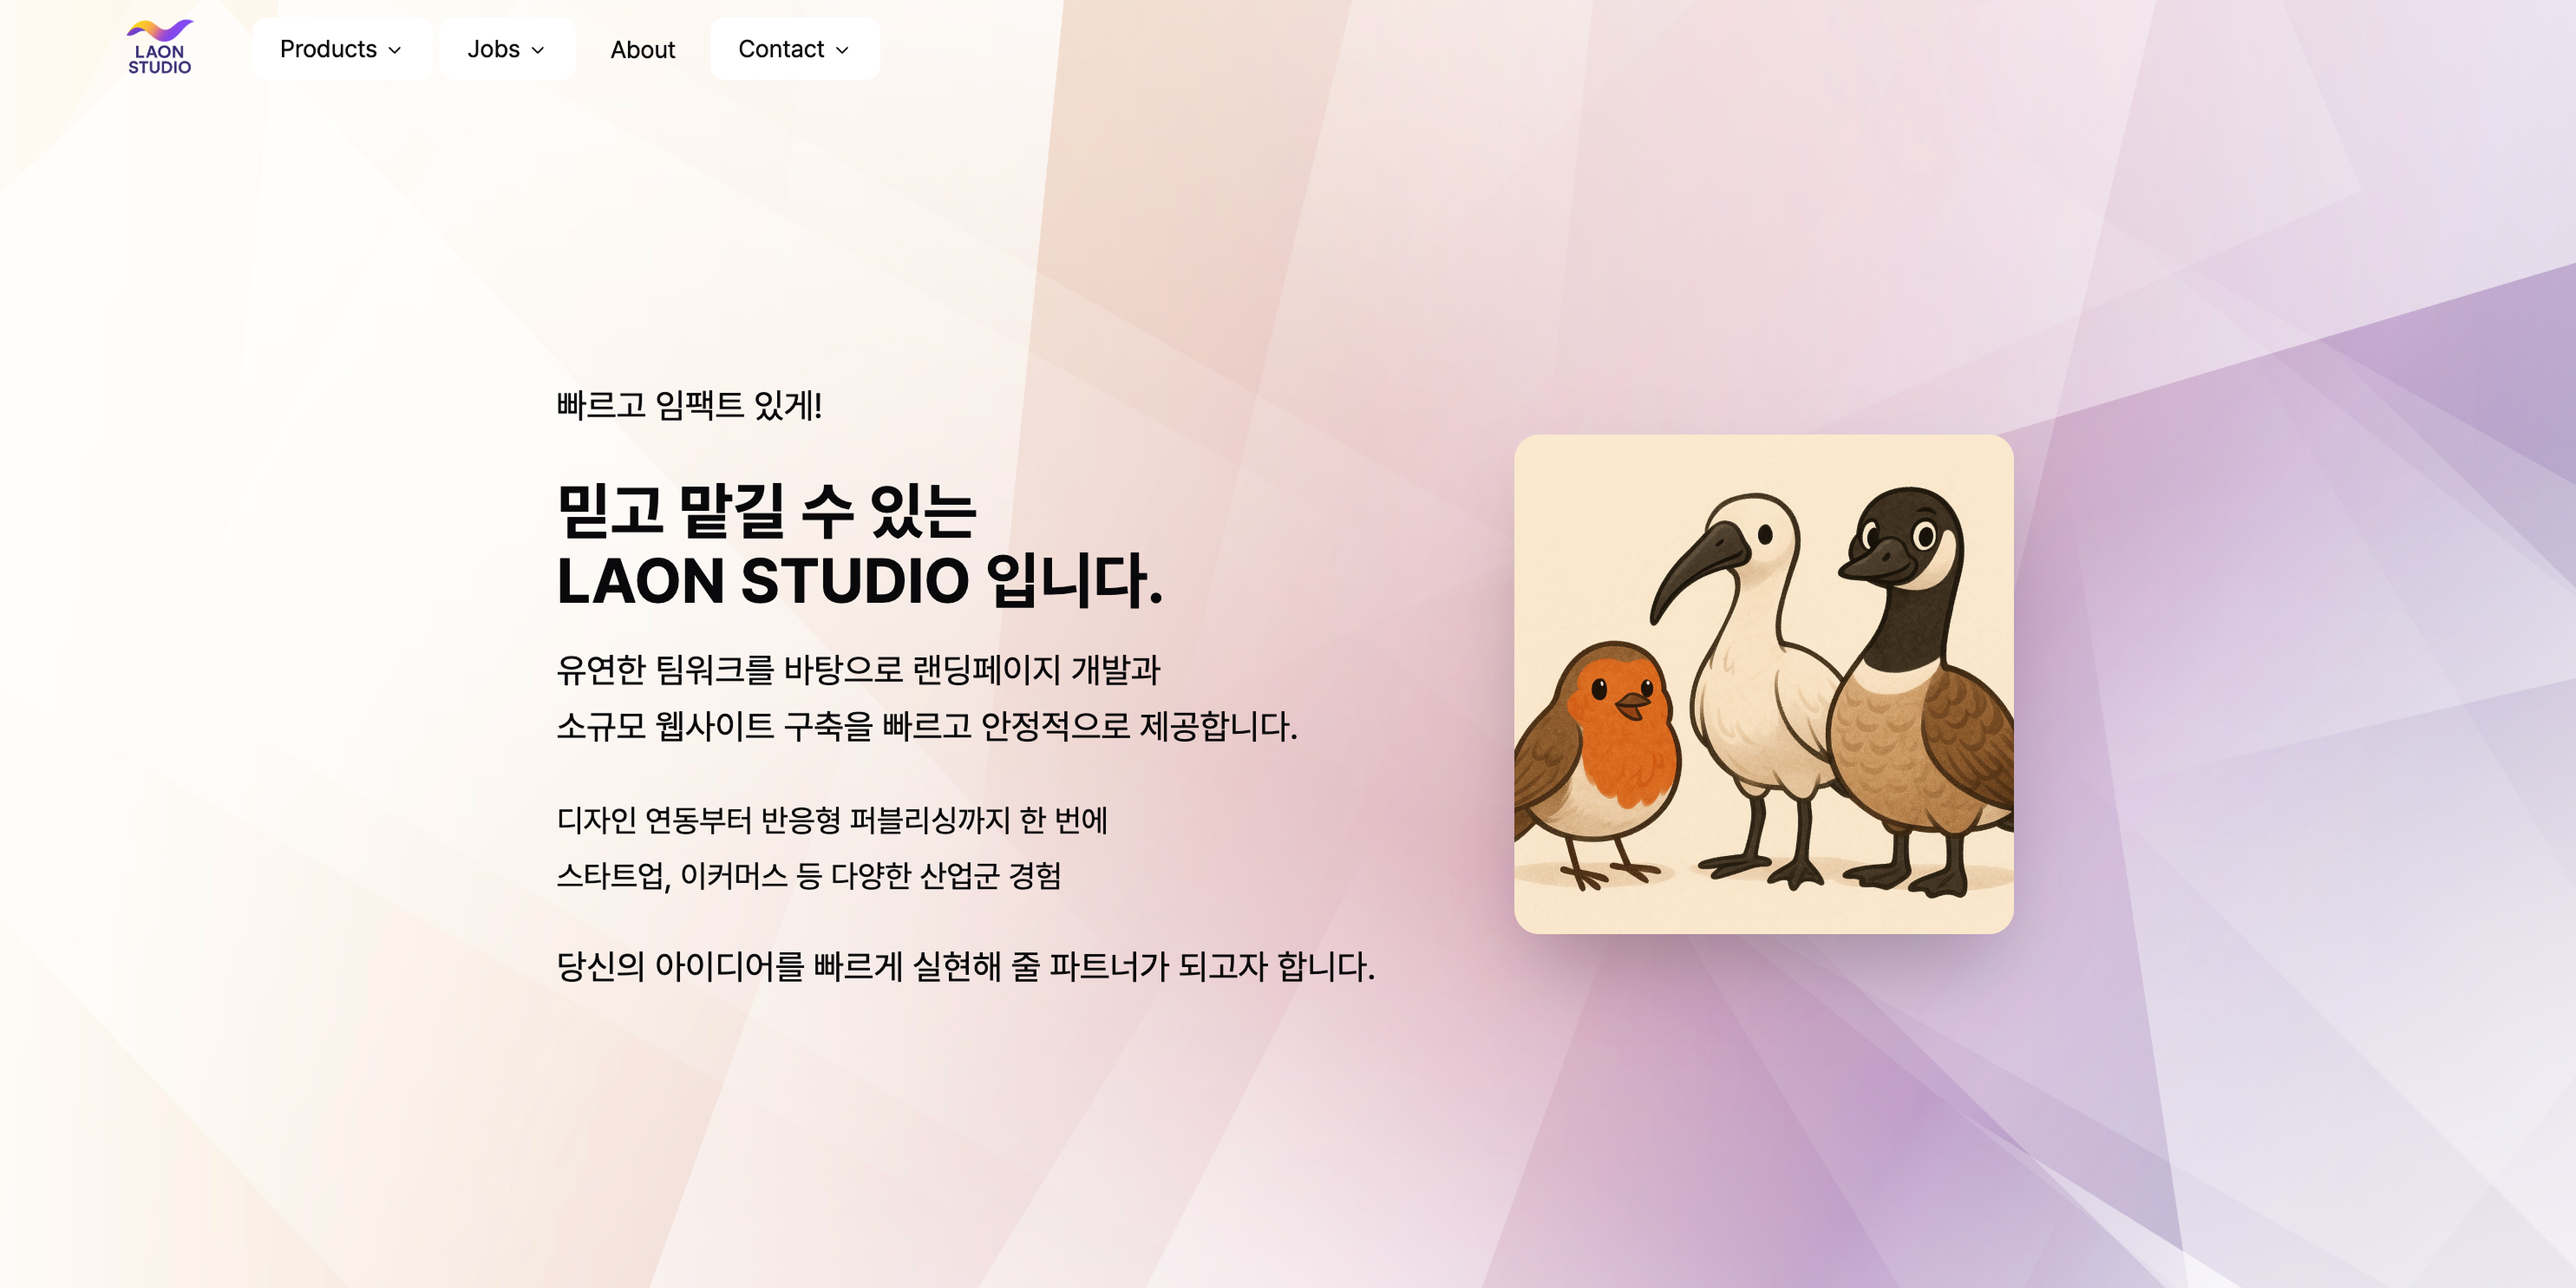
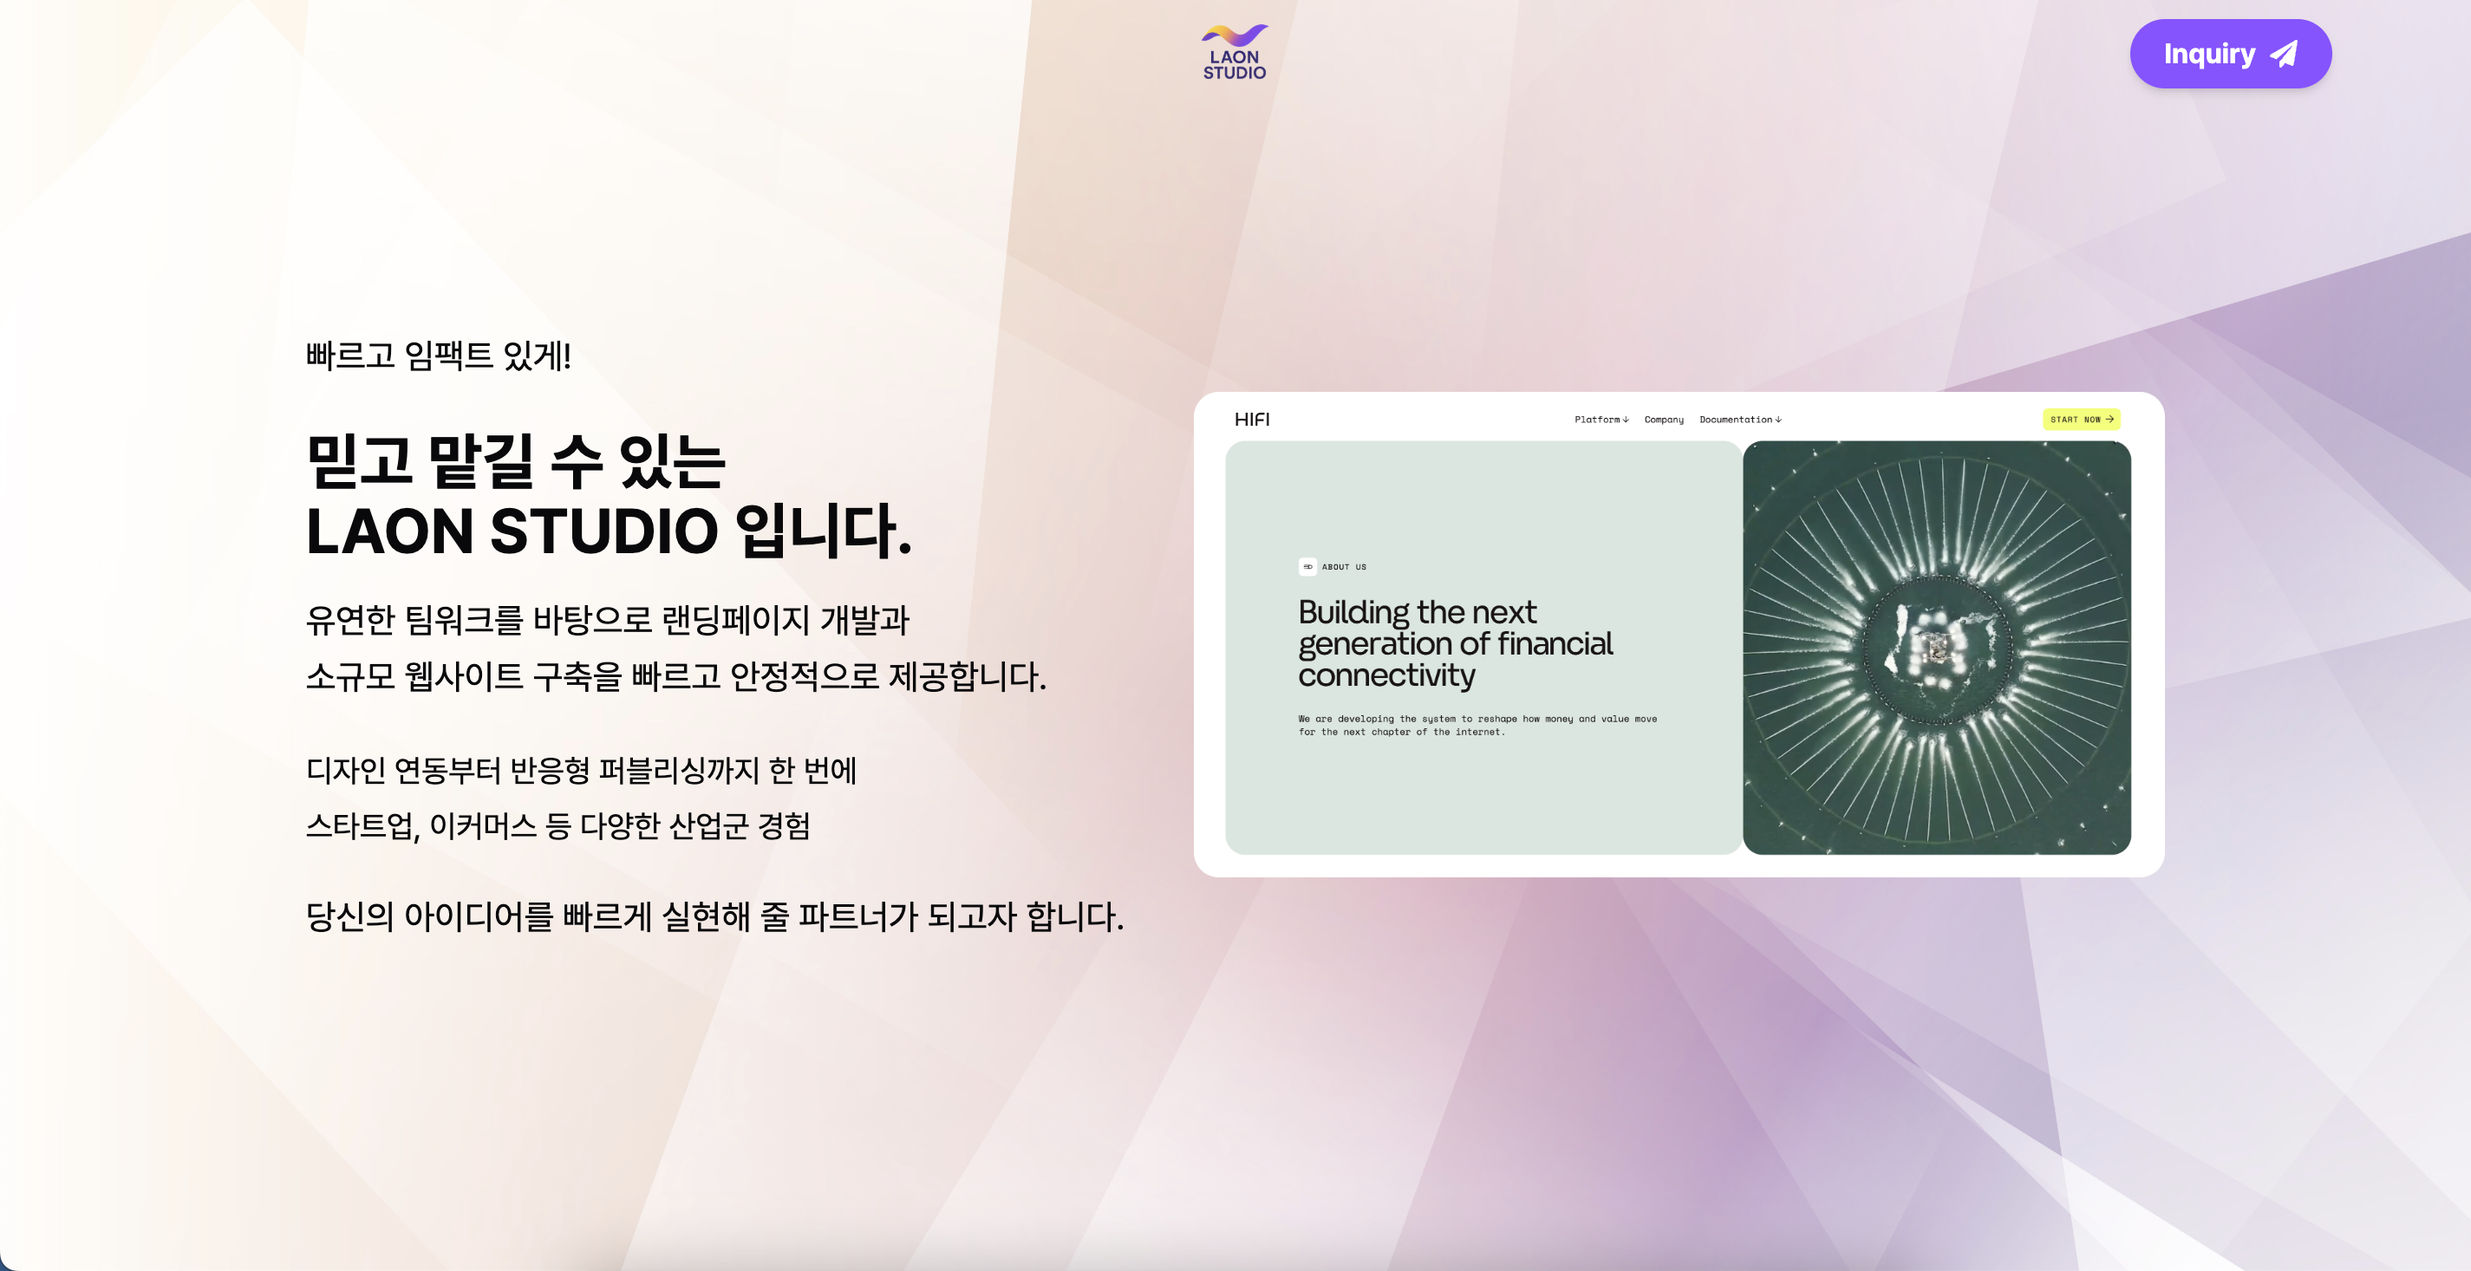
feat: replace hero image and update responsive classes

diff --git a/app/common/components/hero.tsx b/app/common/components/hero.tsx
@@ -10,24 +10,25 @@ import {
 export default function Hero() {
   return (
     <div className='bg-[url(/images/hero_bg.jpg)] no-repeat bg-cover bg-center'>
-      <div className='flex flex-col items-center justify-center lg:h-screen px-8 md:px-20'>
-        <div className='flex items-center justify-center gap-20 lg:flex-row flex-col pt-30 pb-10 lg:py-0'>
+      <div className='flex flex-col items-center justify-center h-[unset] lg:h-screen px-8 xl:px-20 md:px-10'>
+        <div className='flex items-center justify-center gap-10 lg:flex-row flex-col pt-20 pb-10 lg:py-0'>
           <div className='flex-1'>
-            <p className='text-lg lg:text-xl mb-6 leading-relaxed'>
+            <p className='text-lg xl:text-xl mb-6 leading-relaxed'>
               빠르고 임팩트 있게!
             </p>
-            <h1 className='text-2xl lg:text-4xl font-bold mb-4'>
+            <h1 className='text-2xl xl:text-4xl font-bold mb-4'>
               믿고 맡길 수 있는 <br></br>LAON STUDIO 입니다.
             </h1>
-            <p className='text-lg lg:text-xl mb-6 leading-relaxed'>
+            <p className='text-lg xl:text-xl mb-6 leading-relaxed'>
               유연한 팀워크를 바탕으로 랜딩페이지 개발과
-              <br /> 소규모 웹사이트 구축을 빠르고 안정적으로 제공합니다.
+              <br className='hidden sm:block' /> 소규모 웹사이트 구축을 빠르고
+              안정적으로 제공합니다.
             </p>
-            <ul className='text-base lg:text-lg space-y-1 mb-6'>
+            <ul className='text-base xl:text-lg space-y-1 mb-6'>
               <li>디자인 연동부터 반응형 퍼블리싱까지 한 번에</li>
               <li>스타트업, 이커머스 등 다양한 산업군 경험</li>
             </ul>
-            <p className='text-lg lg:text-xl'>
+            <p className='text-lg xl:text-xl'>
               당신의 아이디어를 빠르게 실현해 줄 파트너가 되고자 합니다.
             </p>
           </div>
@@ -84,7 +85,7 @@ const TiltCard = () => {
         transformStyle: 'preserve-3d',
         transform,
       }}
-      className='relative h-72 w-72 rounded-xl'
+      className='relative max-h-80 max-w-160 lg:max-h-72 lg:max-w-140 rounded-xl overflow-hidden'
     >
       <Link
         to='https://laon-studio.github.io/landing-portfolio/'
@@ -92,8 +93,8 @@ const TiltCard = () => {
       >
         <img
           className='rounded-xl object-cover w-full h-full shadow-2xl'
-          src='/images/laon_profile.png'
-          alt='laon profile'
+          src='/images/clone_hifi_landing_thumb.png'
+          alt='clone hifi landing'
         />
       </Link>
     </motion.div>
